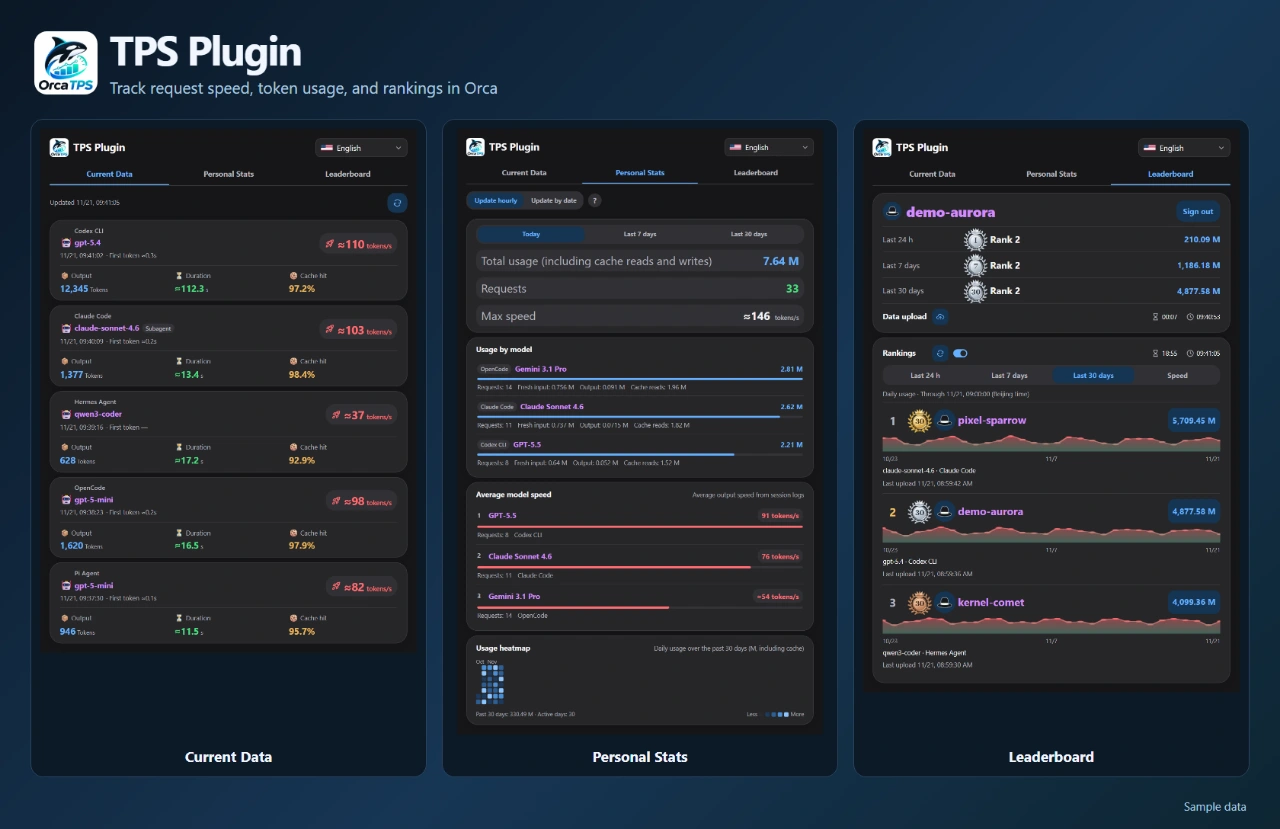
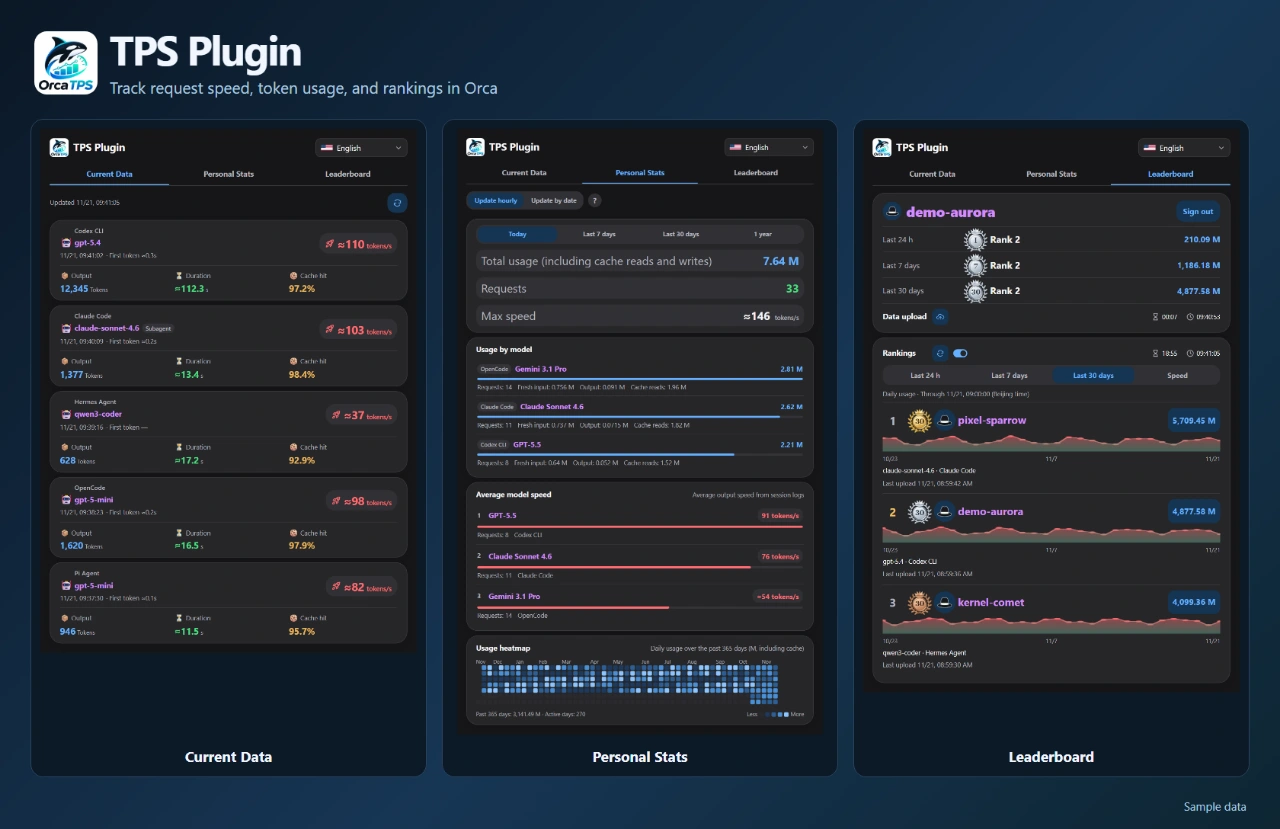
feat: add annual personal usage statistics
Add a year tab and a 365-day heatmap. Keep one year of personal usage and backfill available local logs without extending the leaderboard window.

Changed region(s): [[0.375, 0.7841, 0.625, 0.8745], [0.4062, 0.2714, 0.4688, 0.3016]]

diff --git a/src/panel.html b/src/panel.html
@@ -413,6 +413,7 @@
     .empty-text { margin: 10px 0 0; color: var(--muted); font-size: 13px; overflow-wrap: anywhere; }
     .war, .heat { padding: 10px 16px; }
     .war-tabs { display: grid; grid-template-columns: repeat(3, minmax(0, 1fr)); gap: 4px; padding: 3px; border-radius: 13px; background: var(--speed-bg); }
+    .war-period-tabs { grid-template-columns: repeat(4, minmax(0, 1fr)); }
     .war-tab { min-width: 0; padding: 5px 4px; border: 0; border-radius: 10px; background: transparent; color: var(--muted); font-size: 11px; font-weight: 650; cursor: pointer; }
     .war-tab[aria-selected="true"], .war-tab[aria-pressed="true"] { background: var(--button-bg); color: var(--blue); }
     .war-tab:focus-visible { outline: 2px solid var(--blue); outline-offset: 2px; }
@@ -463,9 +464,9 @@
     .rank-index { flex-shrink: 0; min-width: 14px; color: var(--muted); font-size: 11px; font-weight: 700; font-variant-numeric: tabular-nums; }
     .rank-tps { flex-shrink: 0; padding: 3px 7px; border-radius: 10px; color: var(--speed); background: var(--speed-bg); font-size: 12px; font-weight: 700; font-variant-numeric: tabular-nums; }
     #speed .war-fill { background: var(--speed); }
-    .heat { position: relative; }
+    .heat { position: relative; min-width: 0; }
     .heat-scroll { direction: ltr; margin: 8px -4px 0; padding: 0 4px 4px; overflow-x: auto; overflow-y: hidden; scrollbar-width: thin; }
-    .heat-canvas { position: relative; }
+    .heat-canvas { position: relative; width: max-content; }
     .heat-months { position: relative; height: 13px; color: var(--muted); font-size: 9px; }
     .heat-months span { position: absolute; top: 0; white-space: nowrap; }
     .heat-grid { display: grid; grid-template-rows: repeat(7, 8px); grid-auto-flow: column; grid-auto-columns: 8px; gap: 2px; }
@@ -676,10 +677,11 @@
         </details>
       </div>
       <section class="war" id="war" data-i18n-aria-label="usage-overview">
-        <div class="war-tabs" role="tablist" data-i18n-aria-label="usage-period">
+        <div class="war-tabs war-period-tabs" role="tablist" data-i18n-aria-label="usage-period">
           <button class="war-tab" type="button" role="tab" data-range="today" aria-selected="true" data-testid="range-today"><span data-i18n="today"></span></button>
           <button class="war-tab" type="button" role="tab" data-range="week" aria-selected="false" data-testid="range-week"><span data-i18n="last-seven-days"></span></button>
           <button class="war-tab" type="button" role="tab" data-range="month" aria-selected="false" data-testid="range-month"><span data-i18n="last-thirty-days"></span></button>
+          <button class="war-tab" type="button" role="tab" data-range="year" aria-selected="false" data-testid="range-year"><span data-i18n="last-year"></span></button>
         </div>
         <div class="war-totals">
           <div class="war-stat">
@@ -715,7 +717,7 @@
           <h2 class="section-title" id="heat-title"><span data-i18n="usage-heatmap"></span></h2>
           <p class="section-detail" id="heat-sub"><span data-i18n="heatmap-description"></span></p>
         </div>
-        <div class="heat-scroll" id="heat-scroll">
+        <div class="heat-scroll" id="heat-scroll" tabindex="0">
           <div class="heat-canvas">
             <div class="heat-months" id="heat-months" aria-hidden="true"></div>
             <div class="heat-grid" id="heat-grid" role="img" data-i18n-aria-label="heatmap-label"></div>
@@ -1303,8 +1305,8 @@
         usageHelp.open = false;
         usageHelp.querySelector('summary').focus();
       });
-      // One cell per local day over the last 30 days, grouped by week.
-      const HEAT_DAYS = 30;
+      // One cell per local day over the last year, grouped by week.
+      const HEAT_DAYS = 365;
       const localKey = date => `${date.getFullYear()}-${String(date.getMonth() + 1).padStart(2, '0')}-${String(date.getDate()).padStart(2, '0')}`;
       const dayLabel = date => locale.date(date, { dateStyle: 'full' });
       function renderHeatmap() {
@@ -1382,7 +1384,7 @@
       }
       byId('heat-grid').addEventListener('pointerover', event => {
         const cell = event.target.closest?.('.heat-cell');
-        if (cell && !cell.classList.contains('future')) showHeatTip(cell);
+        if (cell && !cell.classList.contains('outside')) showHeatTip(cell);
         else heatTip.hidden = true;
       });
       byId('heat-grid').addEventListener('pointerleave', () => { heatTip.hidden = true; });

diff --git a/docs/known-issues.md b/docs/known-issues.md
@@ -4,7 +4,7 @@
 | --- | --- | --- |
 | 已修复 | 日志目录暂时打不开时，已有用量可能被清零。 | 保留上次读到的用量，目录恢复后继续更新。 |
 | 已修复 | Orca 里的上传回执过大时，较早的滚动榜历史传不上去。 | 回执分块保存，兼容已有回执。重启后用原编号继续补传。 |
-| 本地已验证 | 长期高频使用时，统计、会话缓存和上传记录可用满 Orca 的 5 MiB 总额度。 | 三类数据使用本机 SQLite，明细保留 30 天。 |
+| 本地已验证 | 长期高频使用时，统计、会话缓存和上传记录可用满 Orca 的 5 MiB 总额度。 | 三类数据使用本机 SQLite，个人用量明细保留一年。 |
 | 已修复 | Docker 转发下，不同访客可能共用一份接口访问额度。 | 在服务器配置可信转发 IP 后，按访客计数。 |
 | 已修复 | 当天用量上传成功、滚动数据上传失败时，面板仍显示成功。 | 显示哪部分失败，下一轮优先补传滚动数据。 |
 | 本地已验证 | 两台电脑使用同一 GitHub 账号采集同一个 SSH 来源时，可能重复计算用量。 | 同一远端来源只计一次。待测试服双机验收。 |

diff --git a/README.md b/README.md
@@ -40,9 +40,9 @@ Open **TPS Plugin** in Orca’s right sidebar to switch between **Current Data**
 
 ### 3.2 Personal Stats
 
-- Review usage and request counts for today, the last 7 days, or the last 30 days. Today's summary also shows the highest generation speed for a single request.
+- Review usage and request counts for today, the last 7 or 30 days, or the past year. Today's summary also shows the highest generation speed for a single request.
 - Break down usage by tool and model, and compare average model generation speeds. Usage is shown in millions of tokens (M) and includes new input, output, cache reads, and cache writes.
-- See daily activity over the past 30 days in the heatmap. Request statistics, panel snapshots, and pending uploads are stored in a local SQLite database.
+- See daily activity over the past 365 days in the heatmap. Request statistics, panel snapshots, and pending uploads are stored in a local SQLite database. The plugin keeps a year of personal usage and fills in older days from local logs that are still available.
 - Usage history is cached locally and restored when Orca restarts.
 
 <p align="center">
